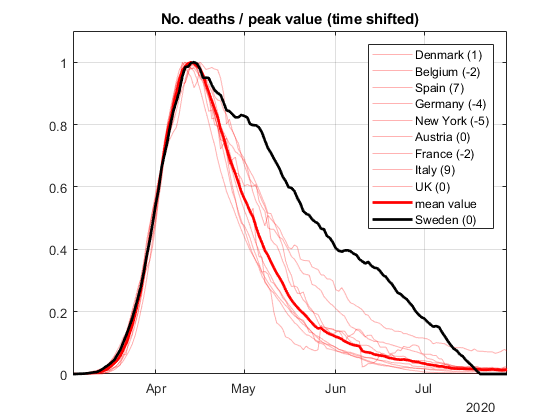
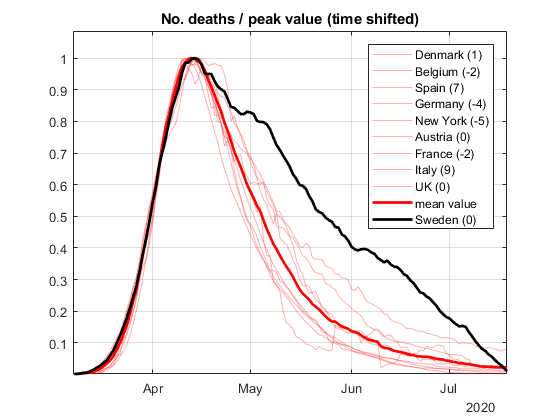
wip

diff --git a/analys1.m b/analys1.m
@@ -35,7 +35,8 @@ meanArray = muliOuterJoin(...
     array2table([datenum(nyDates'), nyDeaths']),...
     array2table([datenum(auDates'), auDeaths']),...
     array2table([datenum(frDates'), frDeaths']),...
-    array2table([datenum(itDates'), itDeaths'])...
+    array2table([datenum(itDates'), itDeaths']),...
+    array2table([datenum(ukDates'), ukDeaths'])...
     )
 %     array2table([datenum(ukDates'), ukDeaths'])...
 meanDeaths =  mean(table2array(meanArray(:,2:end)),2);
@@ -68,6 +69,7 @@ plot(nyDates, nyDeaths, '-', 'Color', color);
 plot(auDates, auDeaths, '-', 'Color', color); 
 plot(frDates, frDeaths, '-', 'Color', color); 
 plot(itDates, itDeaths, '-', 'Color', color); 
+plot(ukDates, ukDeaths, '-', 'Color', color); 
 % plot(dkDates, dkDeaths, '-'); hold on
 % plot(bgDates, bgDeaths, '-'); 
 % plot(spDates, spDeaths, '-'); 
@@ -91,6 +93,7 @@ legend(...
     'Austria (0)',...
     'France (-2)',...
     'Italy (9)',...
+    'UK (0)',...
     'mean value',...
     'Sweden (0)')
 title('No. deaths / peak value (time shifted)');

diff --git a/lockdown.m b/lockdown.m
@@ -31,7 +31,9 @@ comparecountry = 35; comparecountryLd = 12; % NewYork
 % comparecountry = 53; comparecountryLd = 46; % Denmark
 % comparecountry = 201; comparecountryLd = 59; % UK
 
-comparecountry2 = 20; comparecountryLd2 = 12; % Belgium
+% comparecountry2 = 20; comparecountryLd2 = 12; % Belgium
+% comparecountry2 = 53; comparecountryLd2 = 46; % Denmark
+comparecountry2 = 69; comparecountryLd2 = 46; % Denmark
 
 
 continent = 'us';
@@ -112,7 +114,7 @@ function [day0, day1, day2, deaths] = getDeaths(continent, country, nmean)
     day1 = [];
     day2 = [];
     for i = (1:length(countryData(dateindex.(continent),:)))
-      day1(i) = datenum(countryData(dateindex.(continent),i),'yyyy-mm-ddTHH:MM:ss.fffZ');
+      day1(i) = datenum(countryData(dateindex.(continent),i),'yyyy-mm-ddTHH:MM:ss.fffZ') + 5;
 %       day(i) = datenum(countryData(6,i),'yyyy-mm-ddTHH:MM:ss.fffZ') - datenum([2020 3 1]);
     end
 
